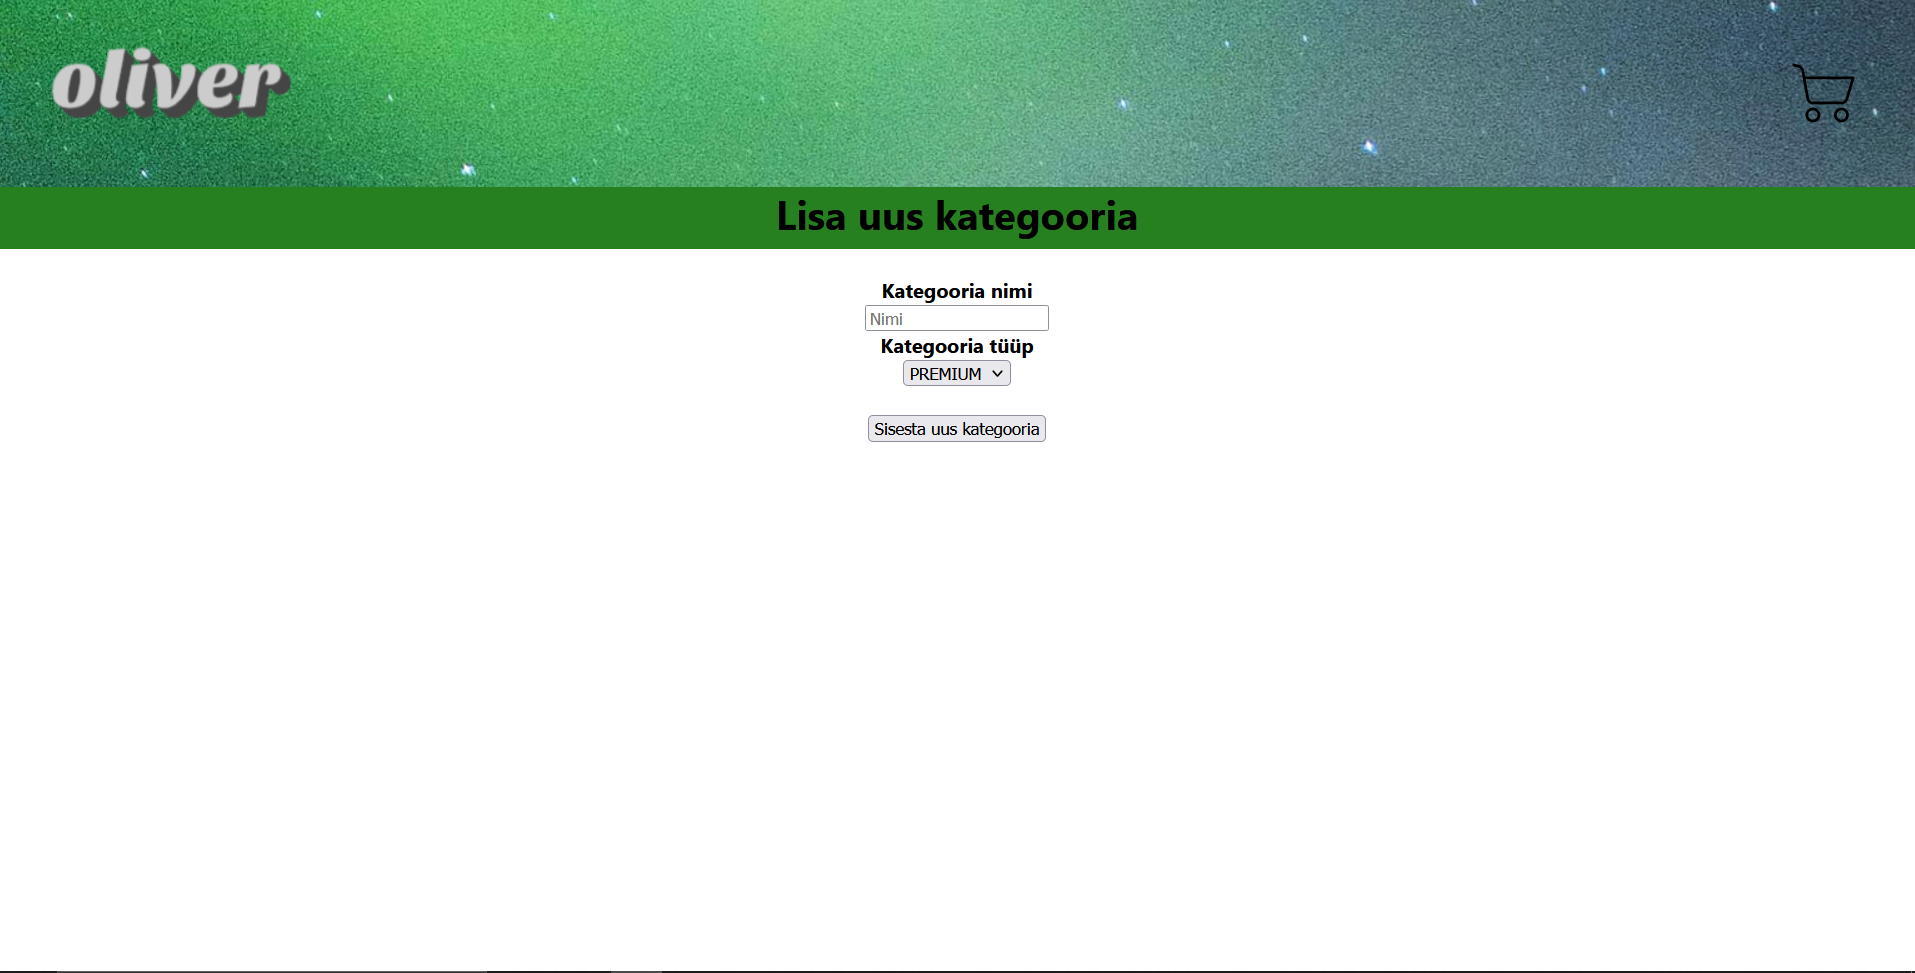
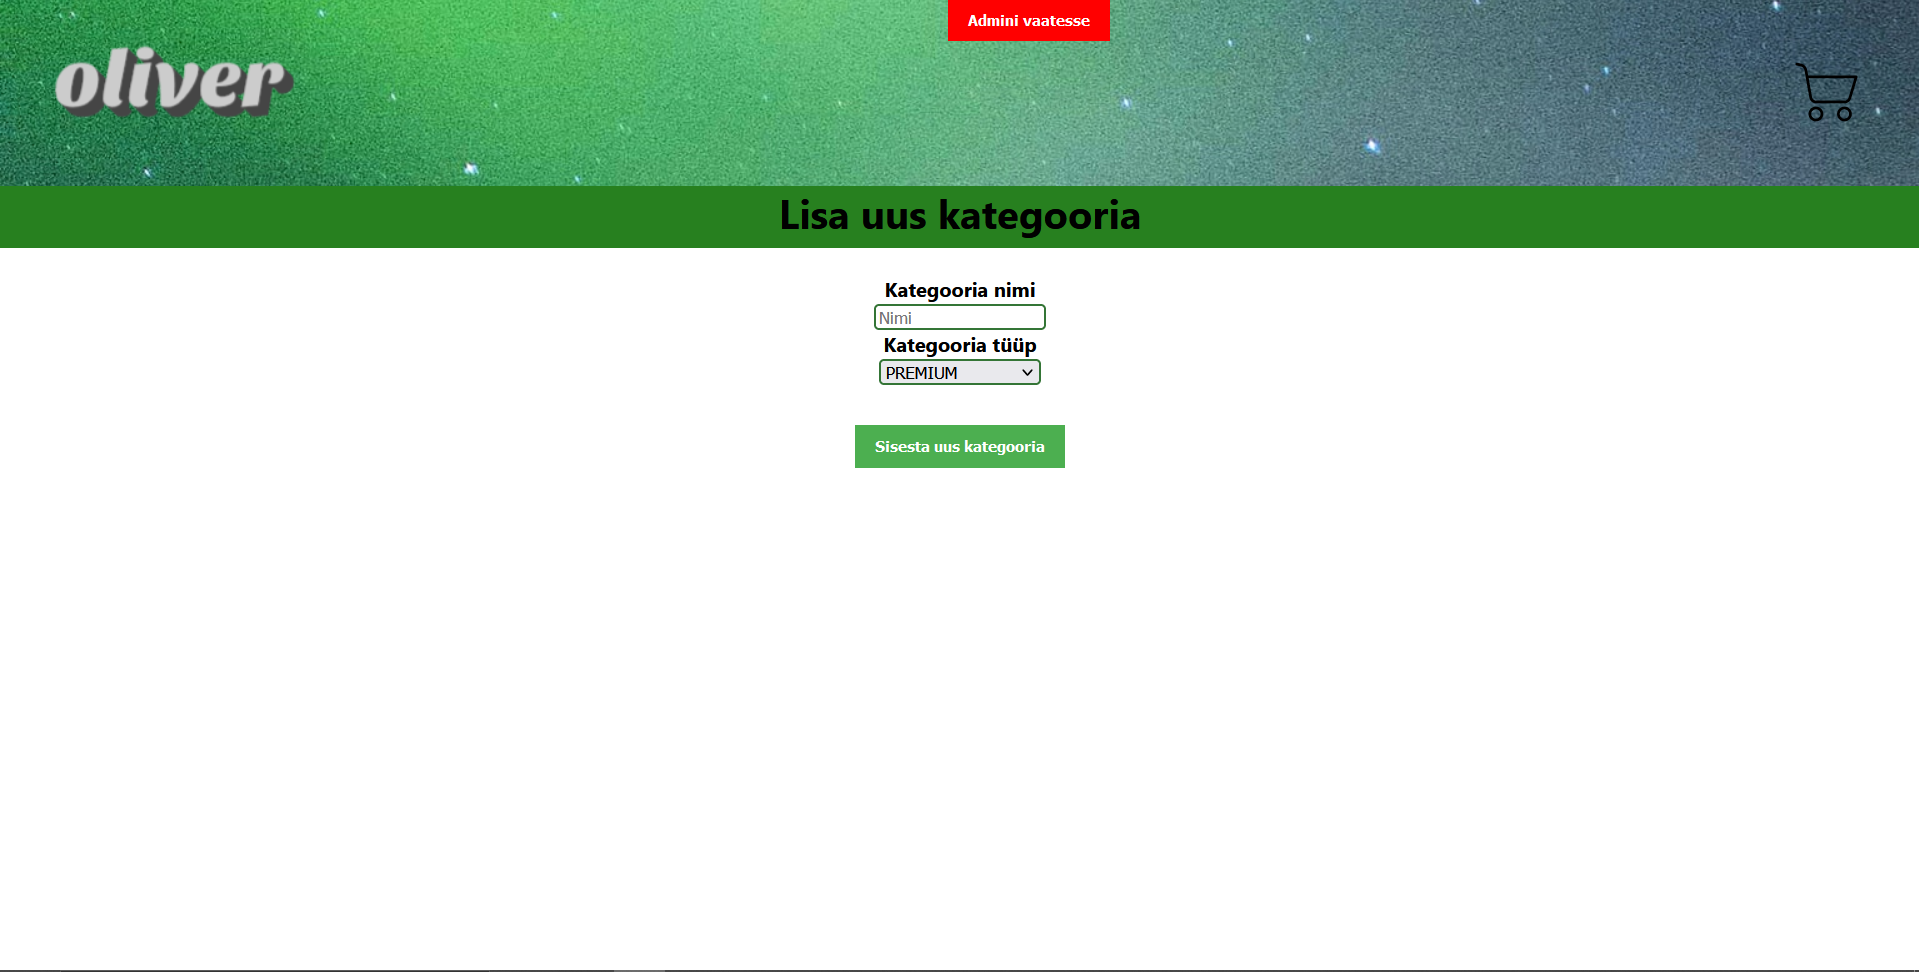
frontend UPDATED

diff --git a/frontend/src/pages/EditItem.js b/frontend/src/pages/EditItem.js
@@ -1,0 +1,61 @@
+import { useEffect, useState, useRef } from 'react';
+import "./EditItem.css";
+
+function EditItem() {
+    const [item, setItem] = useState(null);
+    const nameInputRef = useRef();
+    const priceInputRef = useRef();
+    const categoryInputRef = useRef();
+
+    useEffect(()=>{
+        const itemId = window.location.href.split("/edit-item/")[1];
+        console.log(itemId);
+        fetch("http://localhost:8080/view-item/" + itemId).then(response => {
+            return response.json();
+        }).then(data => {
+            console.log(data);
+            setItem(data);
+        })
+    },[])
+    
+    if(item == null) {
+        return "Loading...";
+    }
+
+    function formSubmitHandler(e) {
+        e.preventDefault();
+
+        const nameValue = nameInputRef.current.value;
+        const priceValue = priceInputRef.current.value;
+        const categoryValue = categoryInputRef.current.value;
+        
+        const itemSubmitted = {
+            id: item.id,
+            name: nameValue,
+            price: priceValue,
+            category: categoryValue
+        }
+
+        // TODO: api päring eraldi Componenti
+        // võiks olla eraldi kood päringu jaoks JA vormi jaoks
+        fetch('http://localhost:8080/edit-item', {
+            method: 'POST',
+            body: JSON.stringify(itemSubmitted),
+            headers: {
+                'Content-type': 'application/json'
+            }
+        });
+    }
+
+    return (<form onSubmit={formSubmitHandler}>
+        <label>Eseme nimi</label><br />
+        <input type="text" required defaultValue={item.name} ref={nameInputRef} /><br />
+        <label>Eseme hind</label><br />
+        <input type="number" required defaultValue={item.price} ref={priceInputRef} /><br />
+        <label>Eseme kategooria</label><br />
+        <input type="text" required defaultValue={item.category} ref={categoryInputRef} /><br />
+        <button className="greenButton">Sisesta uus ese</button>
+    </form>);
+}
+
+export default EditItem;

diff --git a/frontend/src/pages/AdminHome.js b/frontend/src/pages/AdminHome.js
@@ -1,0 +1,60 @@
+import ItemList from "../components/ItemList";
+import CategoryList from "../components/CategoryList";
+import { Link } from 'react-router-dom';
+import { useState, useEffect } from 'react';
+import './AdminHome.css';
+
+
+function AdminHome() {
+    const [isLoading, setIsLoading] = useState(true);
+    const [loadedItems, setLoadedItems] = useState([]);
+    const [loadedCategories, setLoadedCategories] = useState([]);
+
+    useEffect(() => {
+        fetch('http://localhost:8080/items').then(res => {
+            return res.json();
+        }).then(data => {
+            console.log(data);
+            setIsLoading(false);
+            setLoadedItems(data);
+        });
+        fetch('http://localhost:8080/categories').then(res => {
+            return res.json();
+        }).then(data => {
+            console.log(data);
+            setIsLoading(false);
+            setLoadedCategories(data);
+        });
+    },[])
+    
+    function makeDeleteRequest(itemId) {
+        fetch('http://localhost:8080/delete-item/' + itemId,
+            { method: 'DELETE' }
+        ).then(res => {
+            return res.json();
+        }).then(data => {
+            setIsLoading(false);
+            setLoadedItems(data);
+        });
+    }
+
+    if(isLoading) {
+        return (<div>Loading...</div>);
+    }
+
+    return (
+        <div>
+            <Link to="add-item">
+                <button className="greenButton">Lisa uus ese</button>
+            </Link>
+            <ItemList onDeleteItem={makeDeleteRequest} isAddToCart={false} items={loadedItems}/>
+            <br />
+            <Link to="add-category">
+                <button className="greenButton">Lisa uus kategooria</button>
+            </Link>
+            <CategoryList categories={loadedCategories}/>
+        </div>
+    )
+}
+
+export default AdminHome;

diff --git a/frontend/src/components/Item.js b/frontend/src/components/Item.js
@@ -1,9 +1,31 @@
+import { Link } from "react-router-dom";
+import './Item.css';
+
 function Item(props) {
+    function handleDelete(itemId) {
+        props.deleteItem(itemId);
+    }
+
     return (
         <div>
-            <div className="itemName">{props.name}</div>
-            <div className="itemPrice">{props.price}</div>
-            <div className="itemCategory">{props.category}</div>
+            { props.isSingleItemView ? 
+            <div>
+                <div className="itemName">{props.name}</div>
+                <div className="itemPrice">{props.price}</div>
+                <div className="itemCategory">{props.category}</div>
+            </div> : 
+            <Link to={`item/${props.id}`}>
+                <div className="itemName">{props.name}</div>
+                <div className="itemPrice">{props.price}</div>
+                <div className="itemCategory">{props.category}</div>
+            </Link> }
+            { props.isAddToCartButton ? <button className="greenButton">Lisa ostukorvi</button> : 
+                        <div>
+                            <button onClick={()=>handleDelete(props.id)} className="redButton">X</button>
+                            <Link to={`edit-item/${props.id}`}>
+                                <button className="yellowButton">Muuda toode</button>
+                            </Link>
+                        </div> }
         </div>
     )
 }

diff --git a/frontend/src/pages/SingleItem.js b/frontend/src/pages/SingleItem.js
@@ -1,0 +1,32 @@
+import { useEffect, useState } from 'react';
+import Item from '../components/Item';
+
+function SingleItem() {
+    const [item, setItem] = useState(null);
+
+    useEffect(()=>{
+        const itemId = window.location.href.split("/item/")[1];
+        fetch("http://localhost:8080/view-item/" + itemId).then(response => {
+            return response.json();
+        }).then(data => {
+            console.log(data);
+            setItem(data);
+        })
+    },[])
+    
+    if(item == null) {
+        return "Loading...";
+    }
+    
+
+    return (<div> <Item 
+                id={item.id}
+                name={item.name}
+                price={item.price} 
+                category={item.category}
+                isAddToCartButton={true}
+                isSingleItemView={true}
+            /> </div>);
+}
+
+export default SingleItem;

diff --git a/frontend/src/components/AddCategoryForm.css b/frontend/src/components/AddCategoryForm.css
@@ -5,3 +5,45 @@ form {
 label {
     font-weight: bold;
 }
+
+.greenButton {
+    background-color: #4CAF50; /* Green */
+    border: none;
+    color: white;
+    padding: 10px 16px;
+    text-align: center;
+    text-decoration: none;
+    display: inline-block;
+    font-size: 12px;
+    font-weight: bold;
+    margin-top: 10px;
+}
+
+.selectDropdown {
+    border: 2px solid #347536;
+    border-radius: 4px;
+    transition: width 0.4s ease-in-out;
+    width: 130px;
+}
+
+input[type=text] {
+    border: 2px solid #347536;
+    border-radius: 4px;
+    transition: width 0.4s ease-in-out;
+    width: 130px;
+}
+
+input[type=number] {
+    border: 2px solid #347536;
+    border-radius: 4px;
+    transition: width 0.4s ease-in-out;
+    width: 130px;
+}
+
+input[type=text]:focus {
+    width: 250px;
+}
+
+input[type=number]:focus {
+    width: 250px;
+}

diff --git a/frontend/src/components/Item.css b/frontend/src/components/Item.css
@@ -1,0 +1,36 @@
+.greenButton {
+    background-color: #4CAF50; /* Green */
+    border: none;
+    color: white;
+    padding: 10px 16px;
+    text-align: center;
+    text-decoration: none;
+    display: inline-block;
+    font-size: 12px;
+    font-weight: bold;
+}
+
+.yellowButton {
+    background-color: rgb(191, 194, 0); /* Yellow */
+    border: none;
+    color: white;
+    padding: 10px 16px;
+    text-align: center;
+    text-decoration: none;
+    display: inline-block;
+    font-size: 12px;
+    font-weight: bold;
+}
+
+.redButton {
+    background-color: rgb(255, 0, 0); /* Red */
+    border: none;
+    color: white;
+    padding: 3px 3px;
+    text-align: center;
+    text-decoration: none;
+    display: inline-block;
+    font-size: 12px;
+    font-weight: bold;
+    margin-right: 10px;
+}

diff --git a/frontend/src/pages/Home.js b/frontend/src/pages/Home.js
@@ -1,6 +1,4 @@
 import ItemList from "../components/ItemList";
-import CategoryList from "../components/CategoryList";
-import { Link } from 'react-router-dom';
 import { useState, useEffect } from 'react';
 
 function Home() {
@@ -33,15 +31,7 @@ function Home() {
 
     return (
         <div>
-            <Link to="add-item">
-                <button>Lisa uus ese</button>
-            </Link>
-            <ItemList items={loadedItems}/>
-            <br />
-            <Link to="add-category">
-                <button>Lisa uus kategooria</button>
-            </Link>
-            <CategoryList categories={loadedCategories}/>
+            <ItemList isAddToCart={true} items={loadedItems}/>
         </div>
     )
 }

diff --git a/frontend/src/components/AddCategoryForm.js b/frontend/src/components/AddCategoryForm.js
@@ -24,13 +24,13 @@ function AddCategoryForm(props) {
             <label>Kategooria nimi</label><br />
             <input type="text" placeholder="Nimi" required ref={nameInputRef} /><br />
             <label>Kategooria tüüp</label><br />
-            <select required ref={categoryTypeInputRef}> 
+            <select required ref={categoryTypeInputRef} className="selectDropdown"> 
                 <option>PREMIUM</option>
                 <option>DELUXE</option>
                 <option>BASIC</option>
             </select><br />
             <br />
-            <button>Sisesta uus kategooria</button>
+            <button className="greenButton">Sisesta uus kategooria</button>
         </form>
     );
 }

diff --git a/frontend/src/App.js b/frontend/src/App.js
@@ -5,6 +5,9 @@ import Cart from './pages/Cart';
 import AddItem from './pages/AddItem';
 import AddCategory from './pages/AddCategory';
 import Navbar from './components/Navbar';
+import AdminHome from './pages/AdminHome';
+import SingleItem from './pages/SingleItem';
+import EditItem from './pages/EditItem';
 
 function App() {
   return (
@@ -21,6 +24,15 @@ function App() {
       </Route>
       <Route path='/add-category'>
         <AddCategory />
+      </Route>
+      <Route path='/admin'>
+        <AdminHome />
+      </Route>
+      <Route path='/item/:itemId'>
+        <SingleItem />
+      </Route>
+      <Route path='/edit-item/:itemId'>
+        <EditItem />
       </Route>
     </div>
   );

diff --git a/frontend/src/components/Navbar.js b/frontend/src/components/Navbar.js
@@ -6,10 +6,13 @@ function Navbar() {
     return(
         <div className="navbar">
             <Link to="/">
-                <img className="logo" src="oliver.png" alt="Navbar logo" />
+                <img className="logo" src="/oliver.png" alt="Navbar logo" />
             </Link>
-            <Link to="cart">
-            <img className="cart" src="cart.svg" alt="Navbar cart" />
+            <Link to="/admin">
+                <button className="redButton">Admini vaatesse</button>
+            </Link>
+            <Link to="/cart">
+                <img className="cart" src="/cart.svg" alt="Navbar cart" />
             </Link>
         </div>
     );

diff --git a/frontend/src/components/ItemList.js b/frontend/src/components/ItemList.js
@@ -1,14 +1,21 @@
 import Item from "./Item";
 
 function ItemList(props) {
+    function deleteItem(itemId) {
+        props.onDeleteItem(itemId);
+    }
+
     return (
         <div>
             {props.items.map(item => (
                 <Item 
                     key={item.id}
+                    id={item.id}
                     name={item.name}
                     price={item.price} 
-                    category={item.category} />
+                    category={item.category}
+                    isAddToCartButton={props.isAddToCart}
+                    deleteItem={deleteItem} />
             ))}
         </div>
     );

diff --git a/frontend/src/components/AddItemForm.js b/frontend/src/components/AddItemForm.js
@@ -30,7 +30,7 @@ function AddItemForm(props) {
             <input type="number" placeholder="Hind" required ref={priceInputRef} /><br />
             <label>Eseme kategooria</label><br />
             <input type="text" placeholder="Kategooria" required ref={categoryInputRef} /><br />
-            <button>Sisesta uus ese</button>
+            <button className="greenButton">Sisesta uus ese</button>
         </form>
     );
 }
